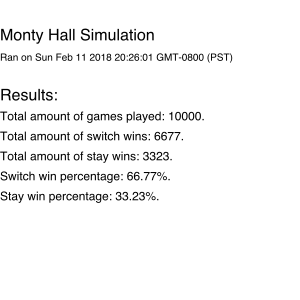
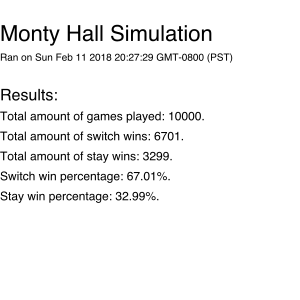
update readme with instructions on starting the project

diff --git a/simulation.js b/simulation.js
@@ -92,7 +92,7 @@ function userSwitches(hostChoice, userChoice) {
 
 //  NOTE: writeToJPGO() writes text to jpg file, "results.jpg"
 function writeToJPG(totalGamesPlayed, switchWins, stayWins, switchWinsPecentage, stayWinsPecentage) {
-  ctx.font = '16px Impact'
+  ctx.font = '22px Impact'
   ctx.fillText('Monty Hall Simulation ', 0, 40);
   ctx.font = '10px Impact'
   ctx.fillText(`Ran on ${new Date}`, 0, 60);

diff --git a/README.md b/README.md
@@ -3,3 +3,12 @@
 ## About: [Monty Hall Wiki](https://en.wikipedia.org/wiki/Monty_Hall_problem)
 
 ### Goal: Create and run a Monty Hall simulation 10,000 times to demonstrate that it is indeed a 2/3 chance of winning by switching your door choice vs a 1/3 chance of winning by keeping your original choice.
+
+
+### Setup:
+1. `npm i`
+2. *** For canvas: Unless previously installed you'll need Cairo and Pango. Instructions [here](https://github.com/Automattic/node-canvas#installation).
+3. `npm start`
+
+### Dependencies:
+1. [Node Canvas](https://github.com/Automattic/node-canvas)
